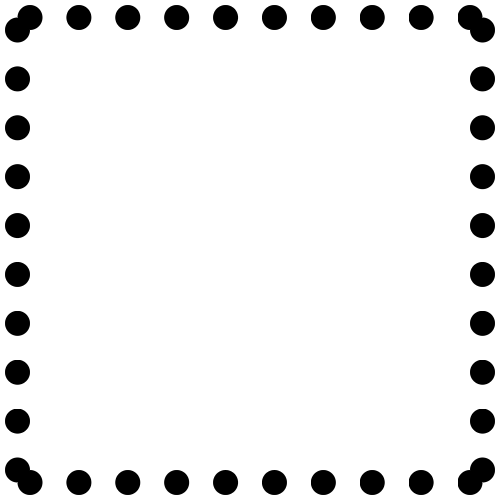
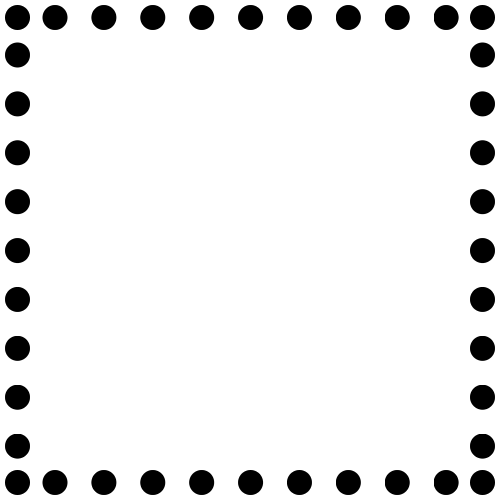
Improve border dot handling for small radii
When rendering dotted borders with small radii, put a single dot in the
corner and render the edge based on that. This fixes an issue where dots
smoosh into each other with small radii.

The resulting rendering isn't perfectly aligned for the moment, but this
can be improved as we handle more complicated situations such as
combinations of borders of different widths.

Changed region(s): [[0.0, 0.0, 0.99, 0.99]]

diff --git a/src/webrender/src/border.rs b/src/webrender/src/border.rs
@@ -94,6 +94,15 @@ impl BorderCornerKind {
         };
         BorderCornerKind::Mask(clip_data, radius, LayerSize::new(width0, width1), kind)
     }
+
+    fn get_radius(&self, original_radius: &LayerSize) -> LayerSize {
+        match *self {
+            BorderCornerKind::Solid => *original_radius,
+            BorderCornerKind::Clip(..) => *original_radius,
+            BorderCornerKind::Mask(_, ref radius, _, _) => *radius,
+            BorderCornerKind::None => *original_radius,
+        }
+    }
 }
 
 #[derive(Copy, Clone, Debug, PartialEq)]
@@ -168,14 +177,23 @@ fn get_corner(
             *radius,
             *border_rect,
         ),
-        (BorderStyle::Dotted, BorderStyle::Dotted) => BorderCornerKind::new_mask(
-            BorderCornerClipKind::Dot,
-            width0,
-            width1,
-            corner,
-            *radius,
-            *border_rect,
-        ),
+        (BorderStyle::Dotted, BorderStyle::Dotted) => {
+            let mut radius = *radius;
+            if radius.width < width0 {
+                radius.width = 0.0;
+            }
+            if radius.height < width1 {
+                radius.height = 0.0;
+            }
+            BorderCornerKind::new_mask(
+                BorderCornerClipKind::Dot,
+                width0,
+                width1,
+                corner,
+                radius,
+                *border_rect,
+             )
+        }
 
         // Draw border transitions with dots and/or dashes as
         // solid segments. The old border path didn't support
@@ -266,13 +284,13 @@ impl<'a> DisplayListFlattener<'a> {
         &mut self,
         info: &LayerPrimitiveInfo,
         border: &NormalBorder,
+        radius: &BorderRadius,
         widths: &BorderWidths,
         clip_and_scroll: ScrollNodeAndClipChain,
         corner_instances: [BorderCornerInstance; 4],
         edges: [BorderEdgeKind; 4],
         clip_sources: Vec<ClipSource>,
     ) {
-        let radius = &border.radius;
         let left = &border.left;
         let right = &border.right;
         let top = &border.top;
@@ -569,9 +587,17 @@ impl<'a> DisplayListFlattener<'a> {
             let mut extra_clips = Vec::new();
             let mut corner_instances = [BorderCornerInstance::Single; 4];
 
+            let radius = &border.radius;
+            let radius = BorderRadius {
+                top_left: corners[0].get_radius(&radius.top_left),
+                top_right: corners[1].get_radius(&radius.top_right),
+                bottom_right: corners[2].get_radius(&radius.bottom_right),
+                bottom_left: corners[3].get_radius(&radius.bottom_left),
+            };
+
             for (i, corner) in corners.iter().enumerate() {
                 match *corner {
-                    BorderCornerKind::Mask(corner_data, corner_radius, widths, kind) => {
+                    BorderCornerKind::Mask(corner_data, mut corner_radius, widths, kind) => {
                         let clip_source =
                             BorderCornerClipSource::new(corner_data, corner_radius, widths, kind);
                         extra_clips.push(ClipSource::BorderCorner(clip_source));
@@ -589,6 +615,7 @@ impl<'a> DisplayListFlattener<'a> {
             self.add_normal_border_primitive(
                 info,
                 &border,
+                &radius,
                 widths,
                 clip_and_scroll,
                 corner_instances,
@@ -690,23 +717,35 @@ impl BorderCornerClipSource {
                 (ellipse, 1 + desired_count.ceil() as usize)
             }
             BorderCornerClipKind::Dot => {
-                // The centers of dots follow an ellipse along the middle of the
-                // border radius.
-                let inner_radius = (corner_radius - widths * 0.5).abs();
-                let ellipse = Ellipse::new(inner_radius);
+                let mut corner_radius = corner_radius;
+                if corner_radius.width < (widths.width / 2.0) {
+                    corner_radius.width = 0.0;
+                }
+                if corner_radius.height < (widths.height / 2.0) {
+                    corner_radius.height = 0.0;
+                }
 
-                // Allocate a "worst case" number of dot clips. This can be
-                // calculated by taking the minimum edge radius, since that
-                // will result in the maximum number of dots along the path.
-                let min_diameter = widths.width.min(widths.height);
+                if corner_radius.width == 0. && corner_radius.height == 0. {
+                    (Ellipse::new(corner_radius), 1)
+                } else {
+                    // The centers of dots follow an ellipse along the middle of the
+                    // border radius.
+                    let inner_radius = (corner_radius - widths * 0.5).abs();
+                    let ellipse = Ellipse::new(inner_radius);
 
-                // Get the number of circles (assuming spacing of one diameter
-                // between dots).
-                let max_dot_count = 0.5 * ellipse.total_arc_length / min_diameter;
+                    // Allocate a "worst case" number of dot clips. This can be
+                    // calculated by taking the minimum edge radius, since that
+                    // will result in the maximum number of dots along the path.
+                    let min_diameter = widths.width.min(widths.height);
 
-                // Add space for one extra dot since they are centered at the
-                // start of the arc.
-                (ellipse, 1 + max_dot_count.ceil() as usize)
+                    // Get the number of circles (assuming spacing of one diameter
+                    // between dots).
+                    let max_dot_count = 0.5 * ellipse.total_arc_length / min_diameter;
+
+                    // Add space for one extra dot since they are centered at the
+                    // start of the arc.
+                    (ellipse, 1 + max_dot_count.ceil() as usize)
+                }
             }
         };
 
@@ -743,6 +782,16 @@ impl BorderCornerClipSource {
                 }
 
                 assert_eq!(request.close(), 2 + 2 * self.actual_clip_count);
+            }
+            BorderCornerClipKind::Dot if self.max_clip_count == 1 => {
+                let dot_diameter = lerp(self.widths.width, self.widths.height, 0.5);
+                let dot = BorderCornerDotClipData {
+                    center: LayerPoint::new(self.widths.width / 2.0, self.widths.height / 2.0),
+                    radius: 0.5 * dot_diameter,
+                };
+                self.actual_clip_count = 1;
+                dot.write(&mut request);
+                assert_eq!(request.close(), 3);
             }
             BorderCornerClipKind::Dot => {
                 let mut forward_dots = Vec::new();
